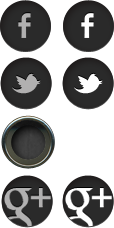
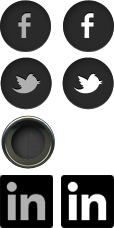
social media done

Changed region(s): [[0.5263, 0.7675, 1.0, 1.0], [0.0, 0.7675, 0.4737, 1.0]]

diff --git a/index.html b/index.html
@@ -25,10 +25,10 @@
 						<a href="info.html"><span>TRAVEL</span> INFO</a>
 					</li>
 					<li id="link5">
-						<a href="blog.html">Blog</a>
+						<a href="https://carloscachima.blog/" target="_blank">Blog</a>
 					</li>
 					<li id="link6">
-						<a href="about.html">About</a>
+						<a href="http://cachimac.com/" target="_blank">About me</a>
 						
 					</li>
 				</ul>
@@ -61,16 +61,13 @@
 					<h3>social:</h3>
 					<ul>
 						<li class="facebook">
-							<a href="https://www.facebook.com/ccachima" class="btn btn-round btn-clear btn-facebook" target="_blank"><i class="fa fa-facebook"></i></a>
+							<a href="https://www.facebook.com/ccachima" class="btn btn-round btn-clear btn-facebook" target="_blank"></a>
 						</li>
 						<li class="twitter">
-							<a href="https://twitter.com/cachimac" class="btn btn-round btn-clear btn-twitter" target="_blank"><i class="fa fa-twitter"></i></a>
+							<a href="https://twitter.com/cachimac" class="btn btn-round btn-clear btn-twitter" target="_blank"></a>
 						</li>
-						<li class="fa fa-linkedin-square fa-3x icons">
+						<li class="googleplus">
 							<a href="https://www.linkedin.com/in/cachimac" class="btn btn-round btn-clear btn-linkedin" target="_blank"></a>
-						</li>
-						<li class="fa fa-wordpress fa-3x icons">
-							<a href="https://carloscachima.blog/" target="_blank" class="btn btn-round btn-clear btn-wordpress"></a>
 						</li>
 					</ul>
 				</div>

diff --git a/css/style.css b/css/style.css
@@ -151,16 +151,6 @@ body {
 	width: 53px;
 }
 
-#sidebar ul li.icons a {
-	display: block;
-	height: 53px;
-	margin: 0 0 0 92px;
-	padding: 0;
-	text-indent: -99999px;
-	text-align: left;
-	width: 53px;
-}
-
 #sidebar ul li.facebook a {
 	background-position: 0 0;
 }
